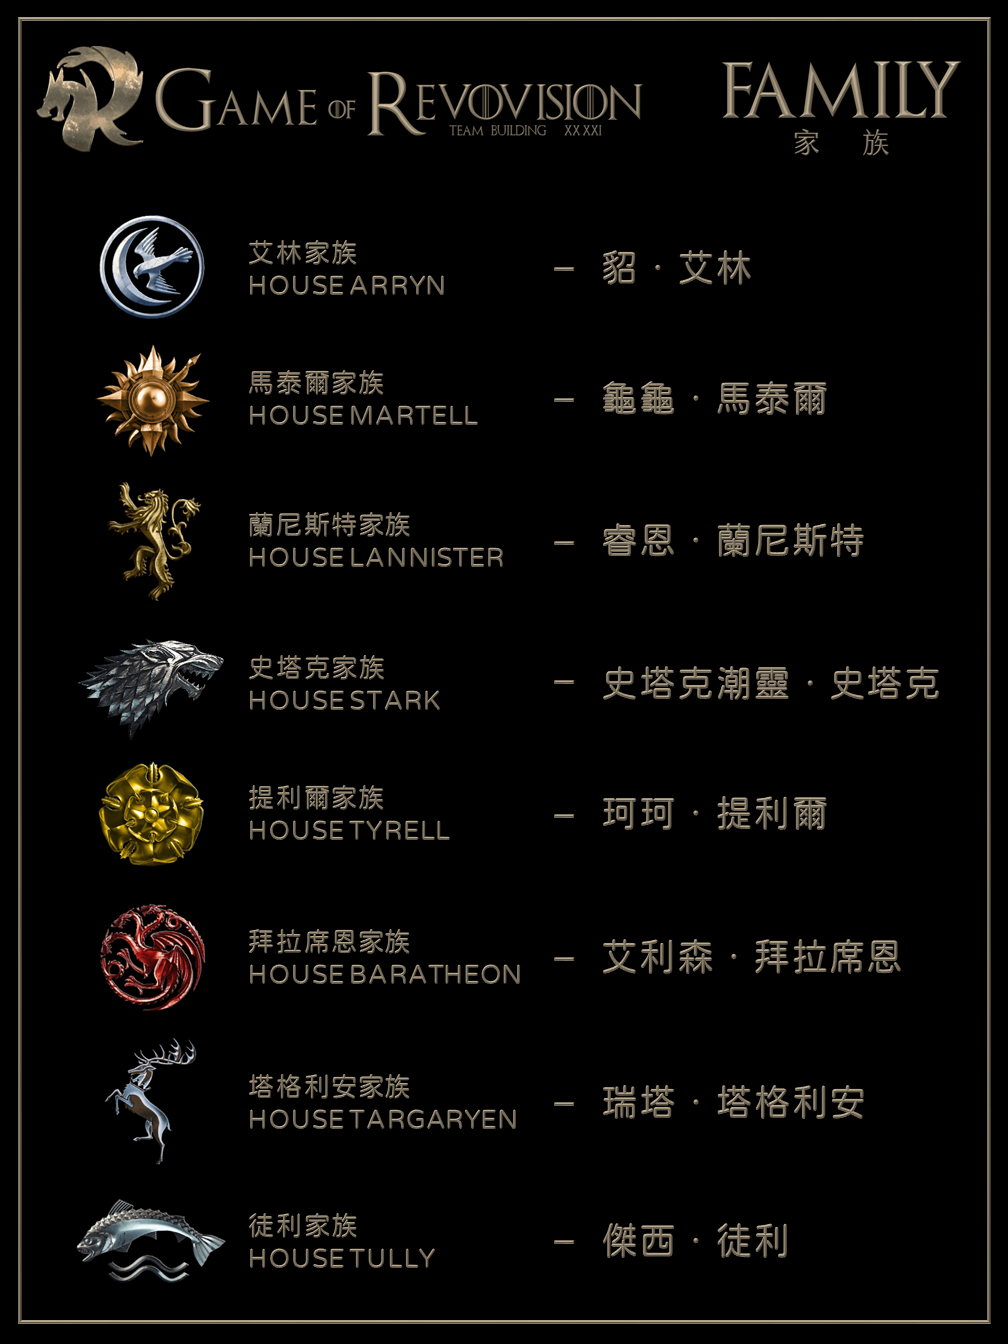
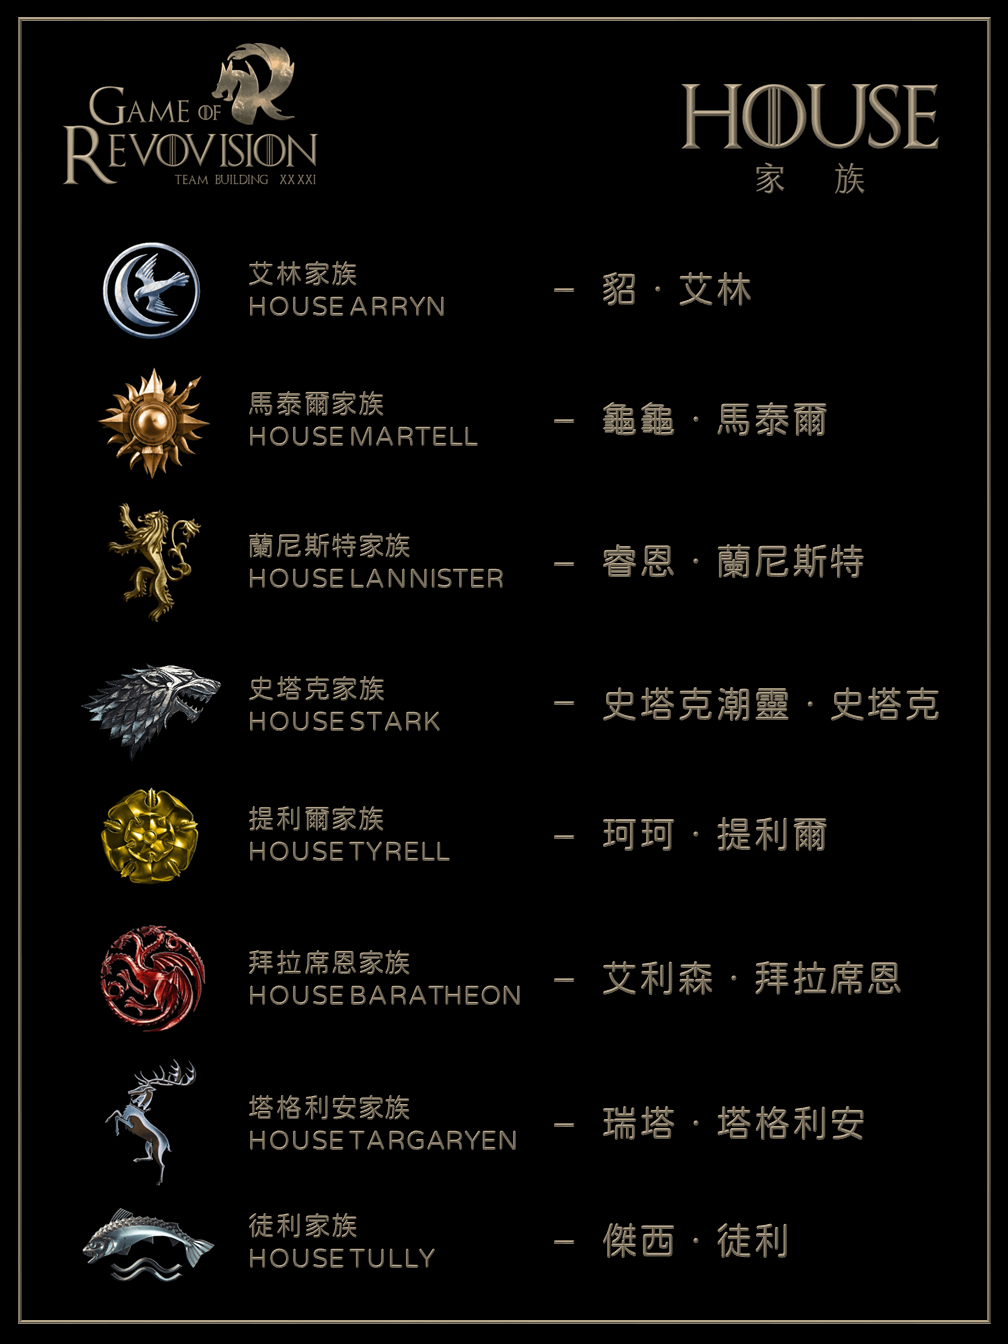
change news img

diff --git a/src/App.vue b/src/App.vue
@@ -35,7 +35,7 @@ export default {
       menu: [
         { name: '王國大廳', name_en: 'KINGDOM', url: '/' },
         { name: '臥室', name_en: 'ROOM', url: '/player' },
-        { name: '家族', name_en: 'FAMILY', url: '/family' },
+        { name: '家族', name_en: 'HOUSE', url: '/family' },
         { name: '酒吧', name_en: 'BAR', url: '/bar' },
         { name: '競技場', name_en: 'ARENA', url: '/arena' },
         // { name: '離開', name_en: 'SIGN OUT', url: '/logout' }
